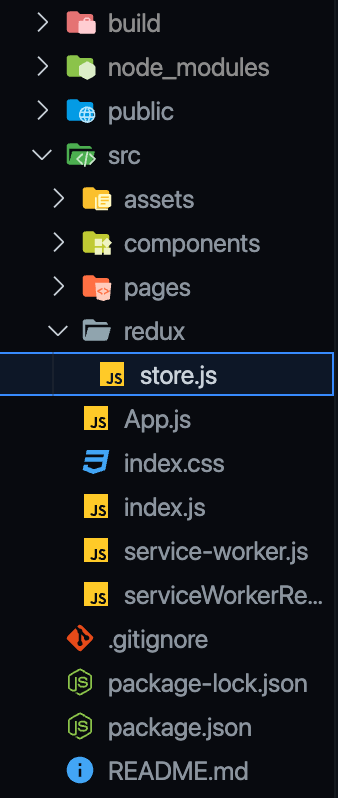
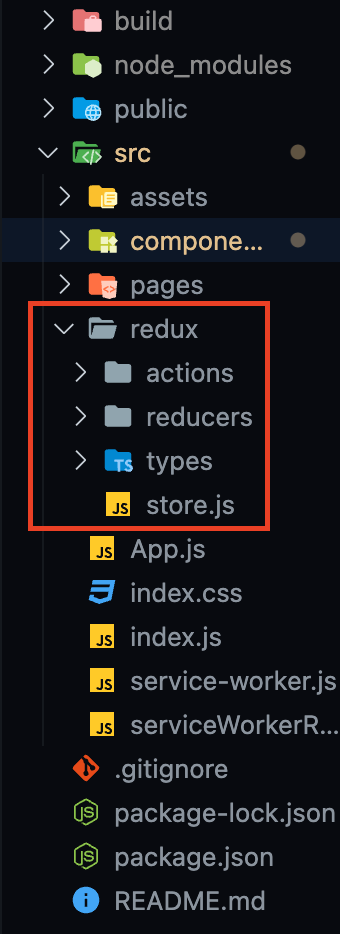
update

diff --git a/src/components/Articles/ArticlesInfo/FirstStepsRedux.jsx b/src/components/Articles/ArticlesInfo/FirstStepsRedux.jsx
@@ -24,7 +24,7 @@ function FirstStepsRedux() {
         <Typography><strong>Redux</strong> is a library as it says from Redux.</Typography>
         <Typography><strong>React-redux</strong> is the library that has functions to connect our App of create-react-app with redux.</Typography>
         <Typography><strong>Redux-thunk</strong> is a way to use async functions in redux.</Typography>
-        <Typography>After we have installed all the dependecies we can proceed to create a folder named redux in the src folder and create the file named <strong>store.js</strong> as the picture bellow</Typography>
+        <Typography>After we have installed all the dependecies we can proceed to create a folder named redux in the src folder and, then create the file named <strong>store.js</strong> and a folder named <strong>reducers</strong> (inside of this folder we will create a file named <strong>reducers</strong>, here is where we will create the reducers that we will use in every segment of our App) also a folder named <strong>types</strong>, and a last one named <strong>actions</strong> as the picture bellow</Typography>
         <img src={folderReduxStorejs} alt="folder redux storejs" />
       </Box>
     </div>
